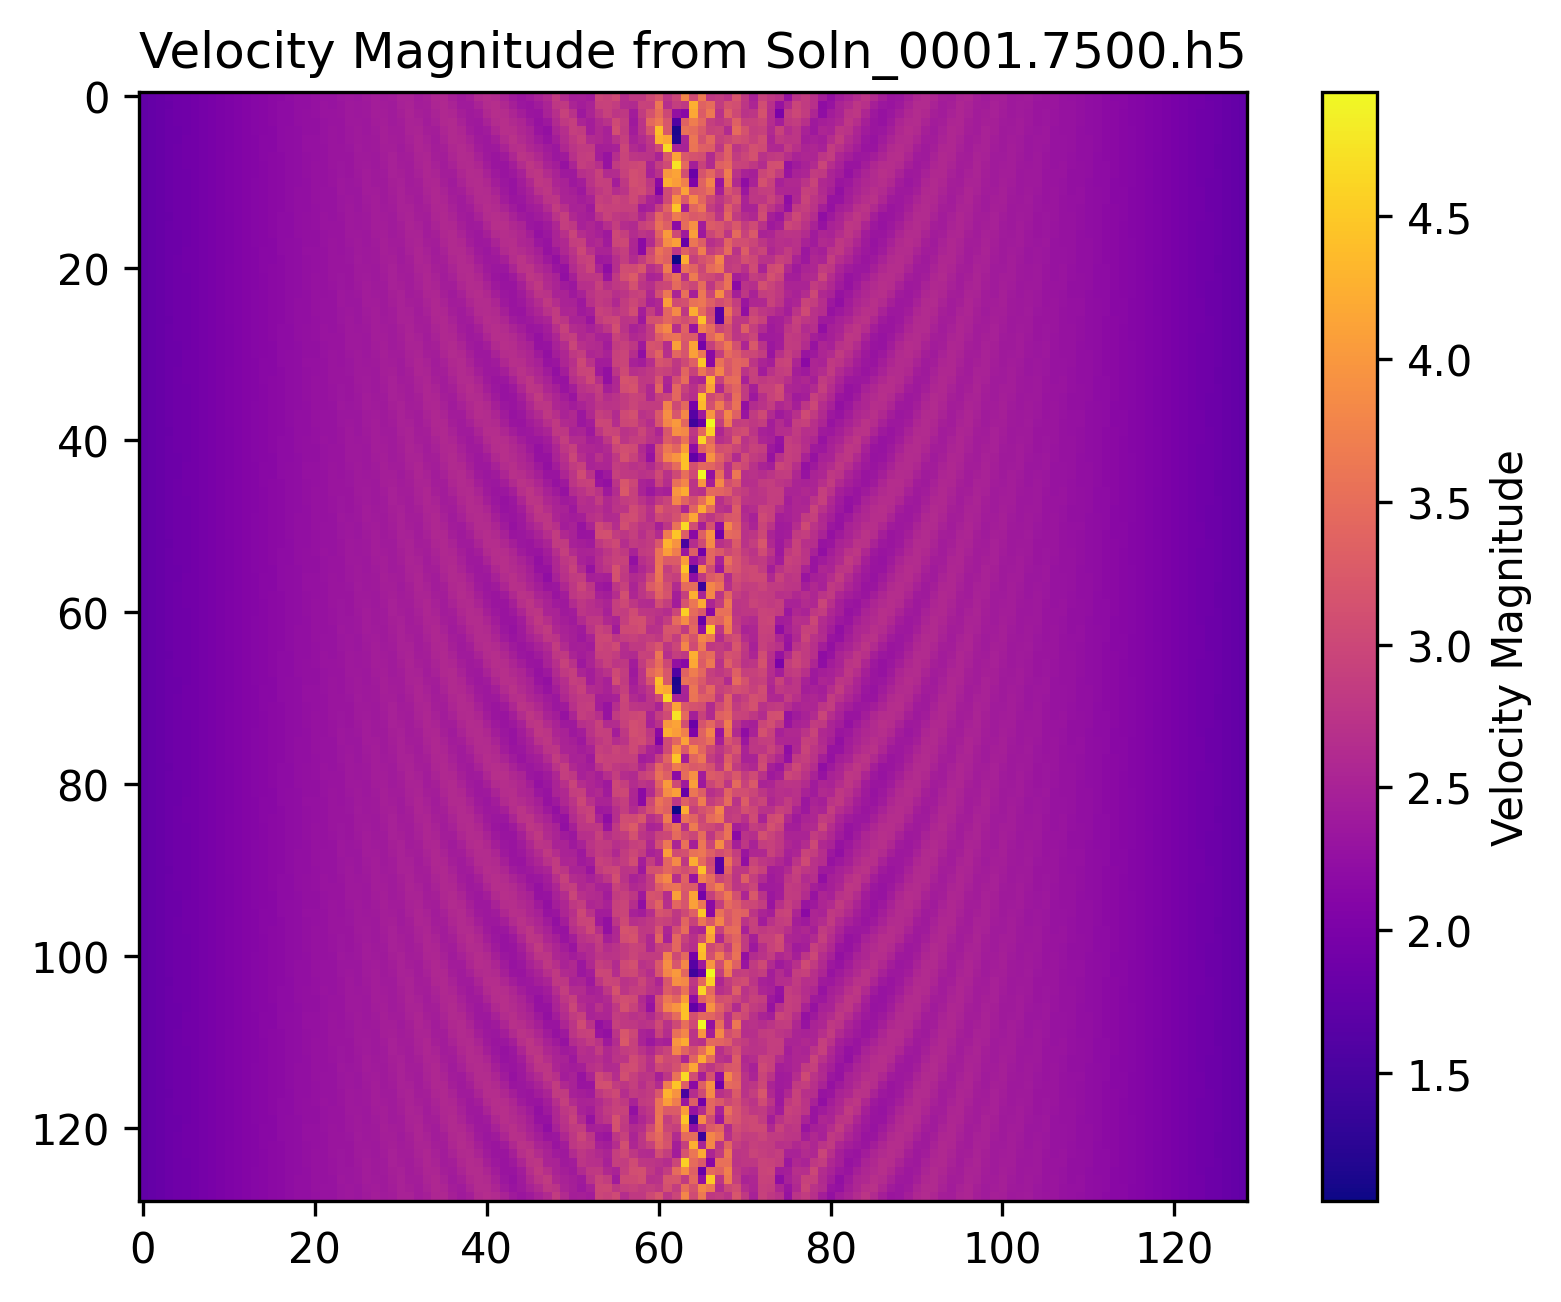
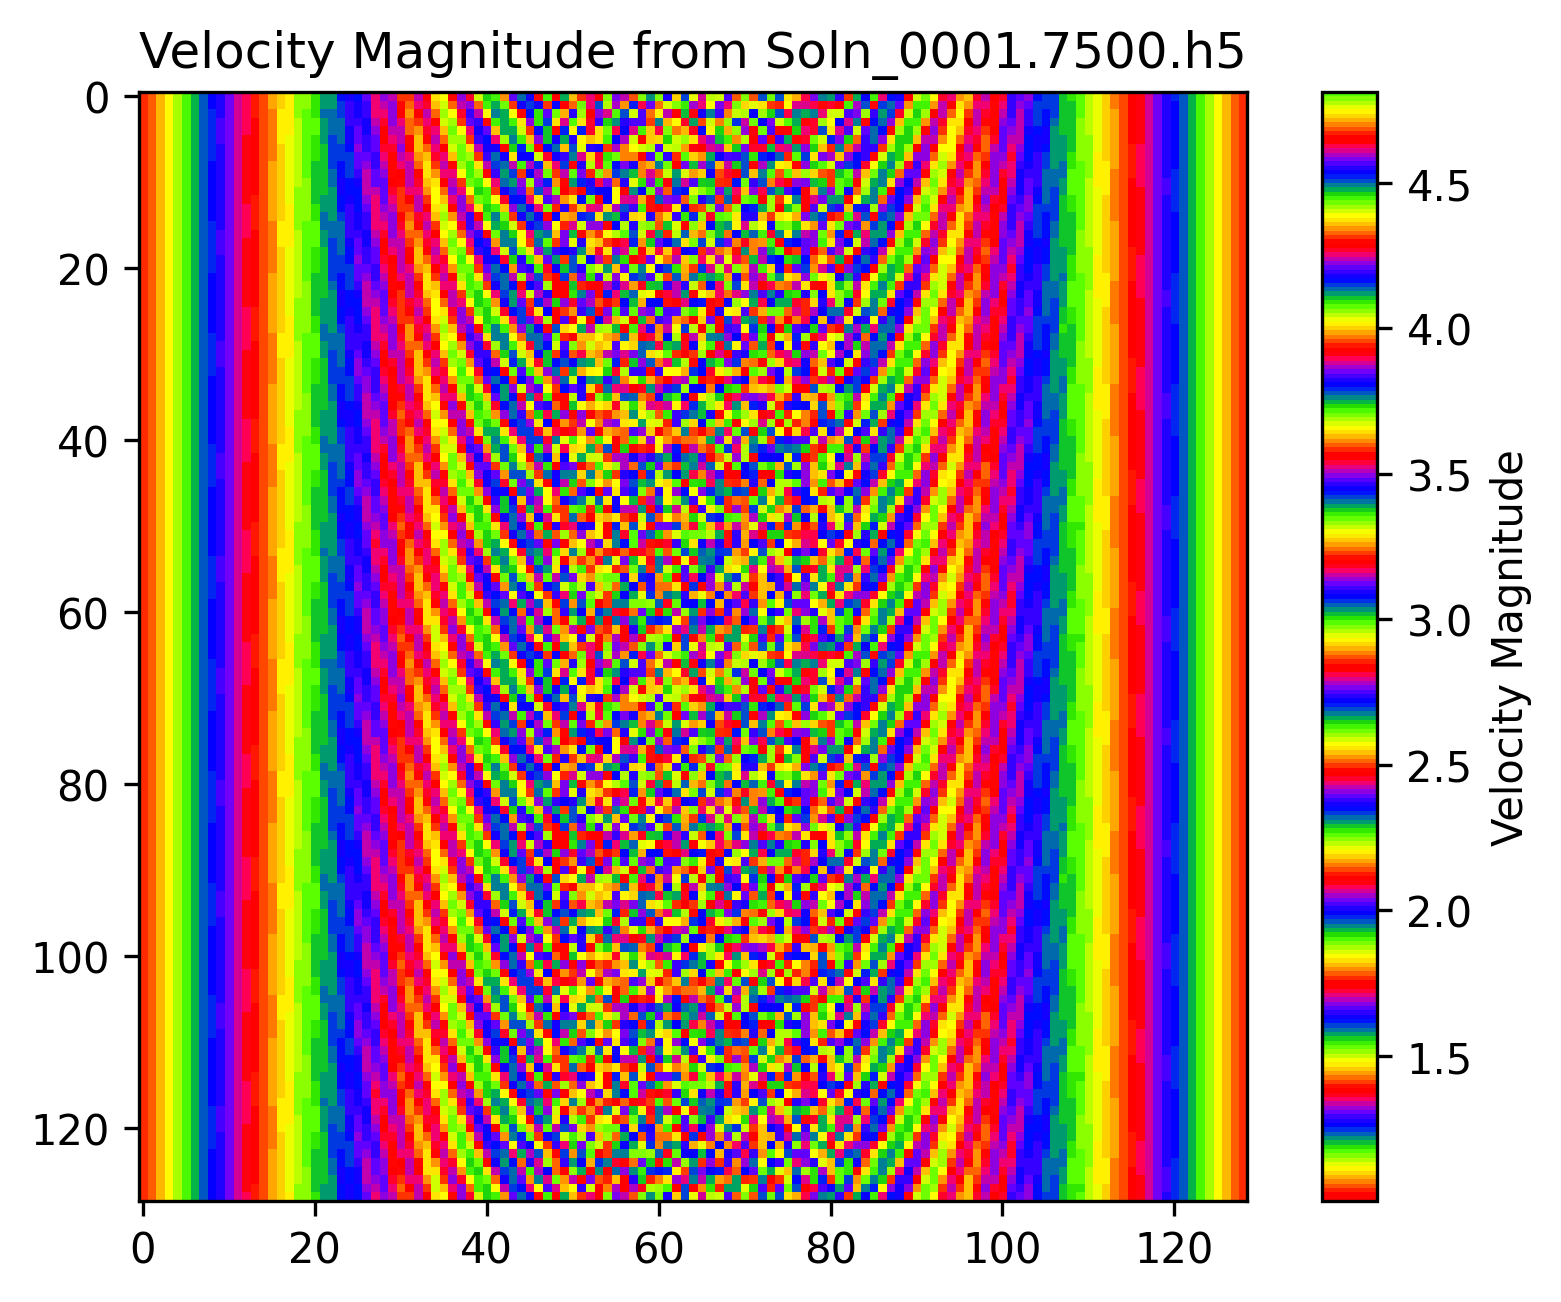
cool images and stuff in output

diff --git a/testing.py b/testing.py
@@ -38,10 +38,9 @@ def plotStreamline(fName, input_dir , base_name="streamline"):
     stream_obj = plt.streamplot(X, Z, U, W, density=1)
 
     # Get unique filename with timestamp
- 
     unique_filename = os.path.join(input_dir, os.path.basename(fName).replace('.h5', '_waterFlow.png'))
     # Save plot and close figure
-    plt.savefig(unique_filename)
+    plt.savefig(unique_filename, dpi=300, bbox_inches='tight')
     plt.close()
     print(f"Saved image to {unique_filename}.")
 
@@ -92,7 +91,7 @@ def main(input_dir):
  
 
                 # Generate an image for 'P'
-                plt.imshow(P, cmap='viridis')
+                plt.imshow(P, cmap='flag')
                 plt.colorbar(label='P')
 
                 plt.title(f"Variable 'P' from {os.path.basename(h5_file)}")
@@ -122,7 +121,7 @@ def main(input_dir):
 
                 # Generate an image for velocity magnitude
 
-                plt.imshow(velocity_magnitude, cmap='plasma')
+                plt.imshow(velocity_magnitude, cmap='prism')
                 plt.colorbar(label='Velocity Magnitude')
                 plt.title(f"Velocity Magnitude from {os.path.basename(h5_file)}")
 

diff --git a/test_cpus.py b/test_cpus.py
@@ -1,0 +1,11 @@
+import os
+import multiprocessing
+
+# Total number of CPU cores
+total_cpu_cores = os.cpu_count()
+
+# Number of usable CPU cores
+usable_cpu_cores = len(os.sched_getaffinity(0)) if hasattr(os, "sched_getaffinity") else multiprocessing.cpu_count()
+
+print(f"Total CPU cores: {total_cpu_cores}")
+print(f"Usable CPU cores: {usable_cpu_cores}")
